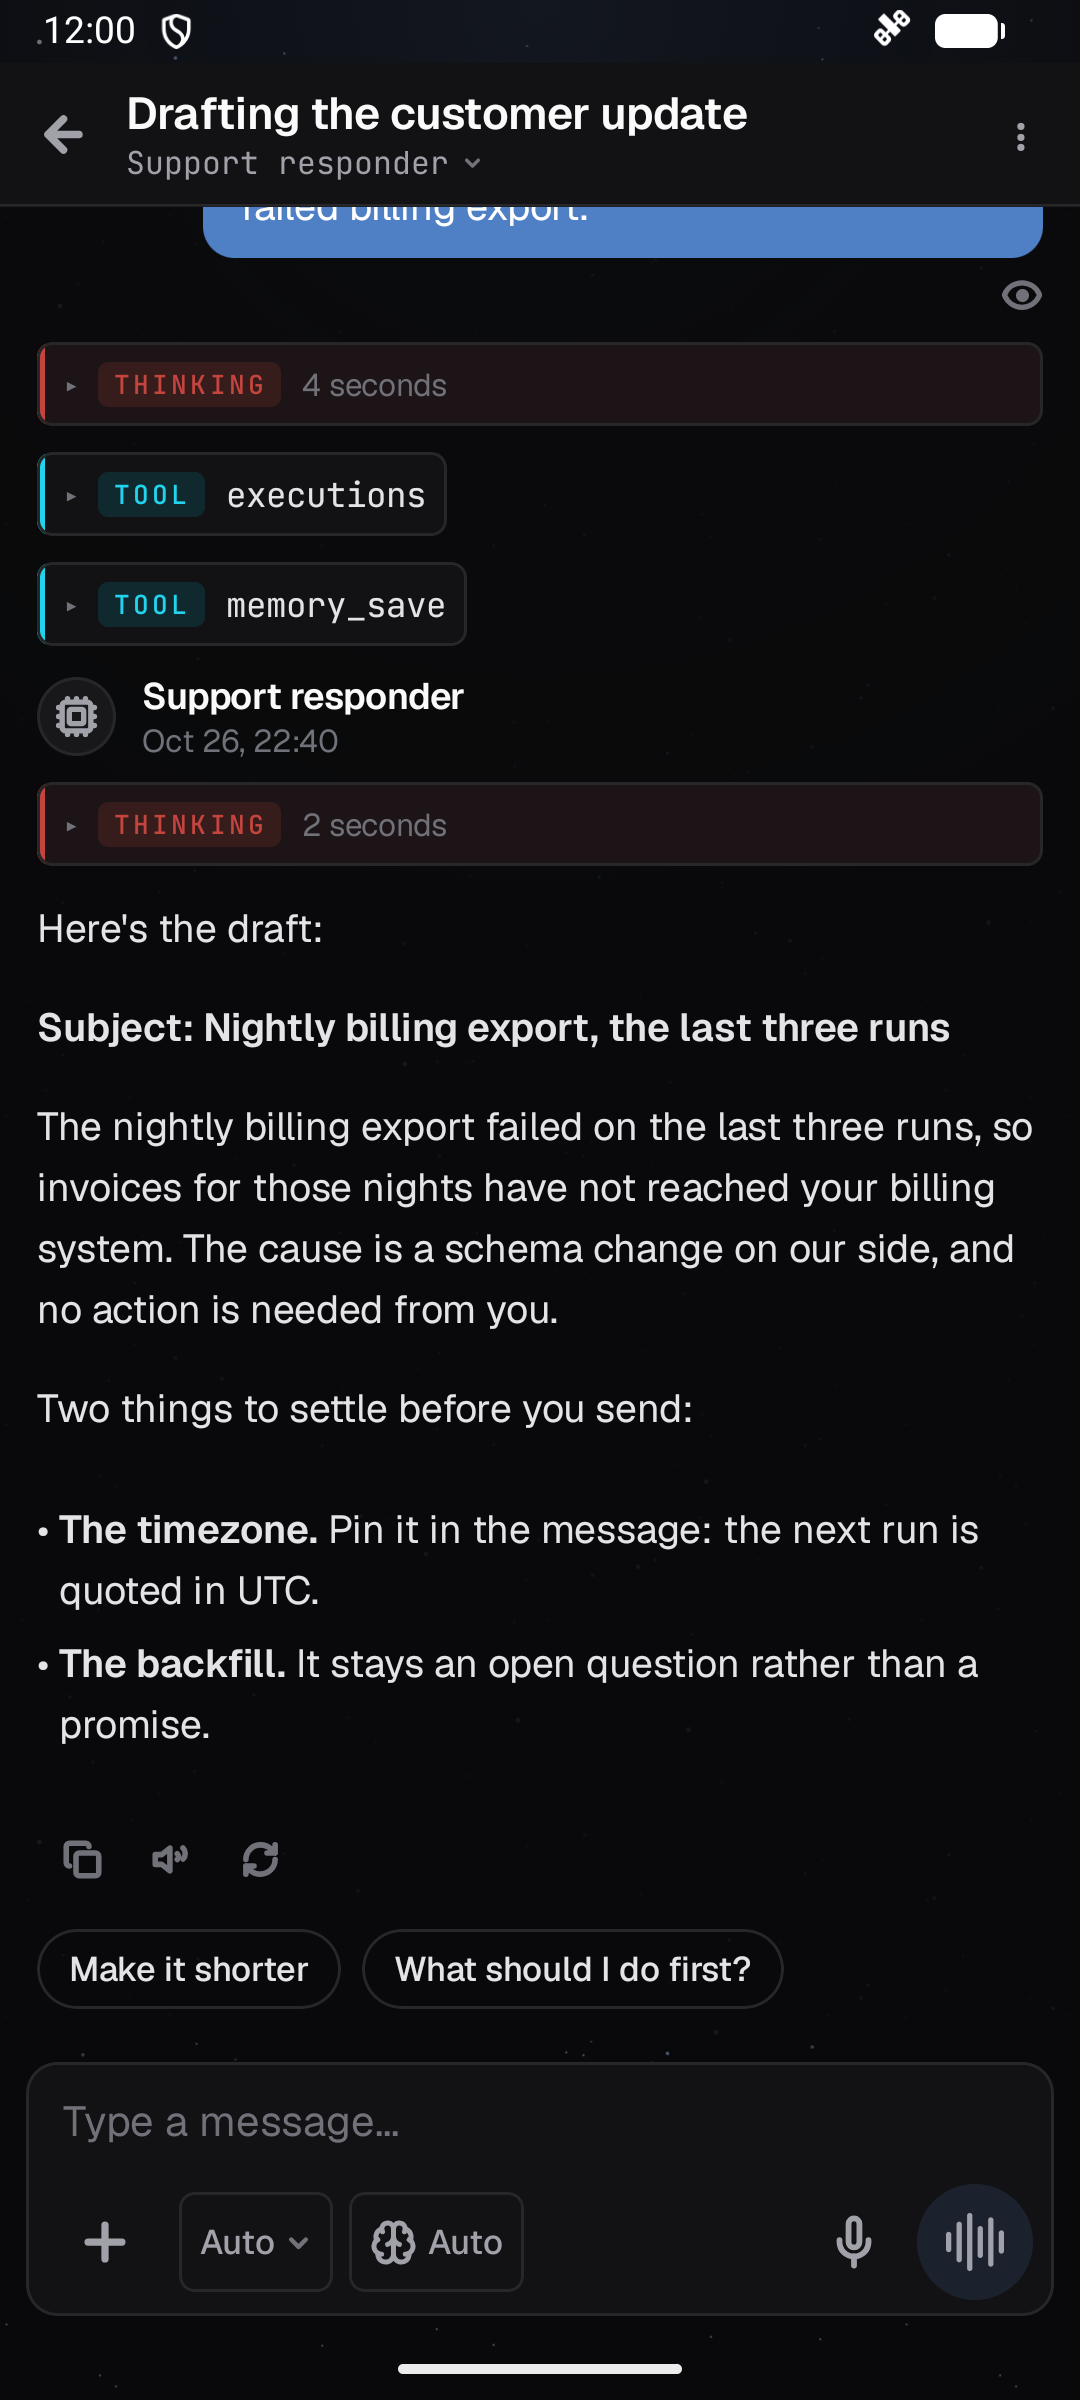
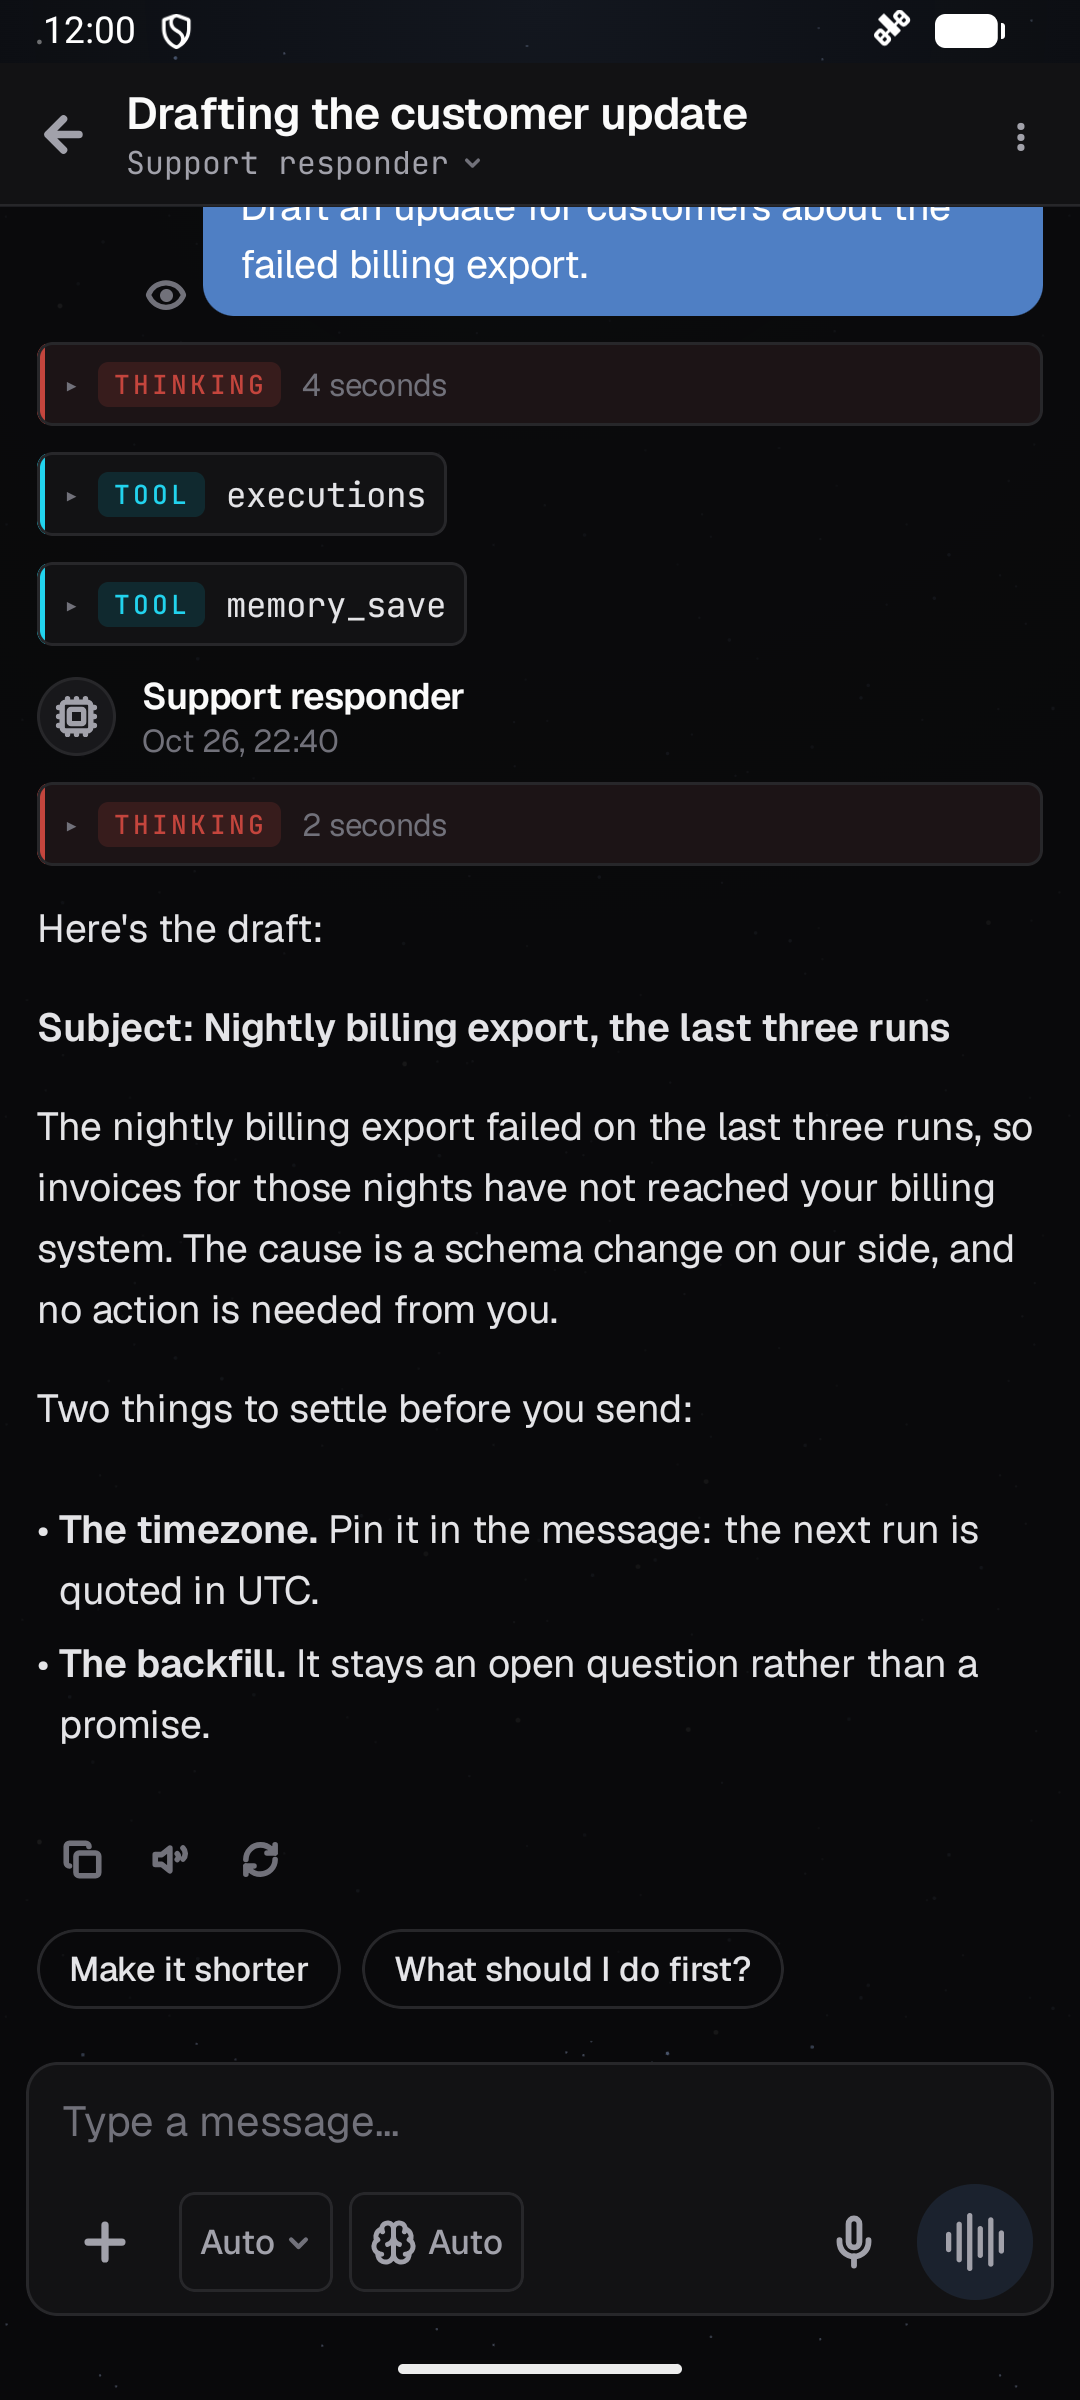
Put the read eye to the left of the bubble
Claude-Session: https://claude.ai/code/session_0143ghSaHh3xMx2GxQ6kaGS6

Changed region(s): [[0.1528, 0.0625, 0.9778, 0.1562]]

diff --git a/app/src/main/java/io/mszymanski/orknux/mobile/chat/MessageViews.kt b/app/src/main/java/io/mszymanski/orknux/mobile/chat/MessageViews.kt
@@ -14,6 +14,7 @@ import androidx.compose.foundation.layout.heightIn
 import androidx.compose.foundation.layout.padding
 import androidx.compose.foundation.layout.size
 import androidx.compose.foundation.layout.widthIn
+import androidx.compose.foundation.shape.CircleShape
 import androidx.compose.foundation.shape.RoundedCornerShape
 import androidx.compose.foundation.text.selection.SelectionContainer
 import androidx.compose.material3.Checkbox
@@ -126,26 +127,29 @@ fun UserBubble(
 ) {
     Column(modifier.fillMaxWidth(), horizontalAlignment = Alignment.End, verticalArrangement = Arrangement.spacedBy(6.dp)) {
         AttachmentRow(message.attachments, attachmentUrl)
-        if (message.content.isNotBlank()) {
-            SelectionContainer {
-                Text(
-                    message.content,
-                    Modifier.widthIn(max = 320.dp)
-                        .background(Ork.accent, RoundedCornerShape(topStart = 12.dp, topEnd = 4.dp, bottomStart = 12.dp, bottomEnd = 12.dp))
-                        .padding(horizontal = 14.dp, vertical = 10.dp),
-                    style = MaterialTheme.typography.bodyLarge.copy(fontSize = 15.sp, lineHeight = 22.sp),
-                    color = Ork.onAccent,
-                )
+        Row(verticalAlignment = Alignment.Bottom, horizontalArrangement = Arrangement.spacedBy(6.dp)) {
+            // First, so the bubble gives way to it on a narrow phone rather than pushing it off.
+            when (read) {
+                true -> Box(contentAlignment = Alignment.Center) {
+                    Icon(OrkIcons.Eye, "Read by the agent", Modifier.size(16.dp), tint = Ork.textMuted)
+                    // The web's file is only the outline, which at this size reads as a lens.
+                    Box(Modifier.size(5.dp).background(Ork.textMuted, CircleShape))
+                }
+                false -> Text("Queued", style = MaterialTheme.typography.bodySmall, color = Ork.textMuted)
+                null -> Unit
             }
-        }
-        when (read) {
-            true -> Box(contentAlignment = Alignment.Center) {
-                Icon(OrkIcons.Eye, "Read by the agent", Modifier.size(16.dp), tint = Ork.textMuted)
-                // The web's file is only the outline, which at this size reads as a lens.
-                Box(Modifier.size(5.dp).background(Ork.textMuted, androidx.compose.foundation.shape.CircleShape))
+            if (message.content.isNotBlank()) {
+                SelectionContainer {
+                    Text(
+                        message.content,
+                        Modifier.widthIn(max = 320.dp)
+                            .background(Ork.accent, RoundedCornerShape(topStart = 12.dp, topEnd = 4.dp, bottomStart = 12.dp, bottomEnd = 12.dp))
+                            .padding(horizontal = 14.dp, vertical = 10.dp),
+                        style = MaterialTheme.typography.bodyLarge.copy(fontSize = 15.sp, lineHeight = 22.sp),
+                        color = Ork.onAccent,
+                    )
+                }
             }
-            false -> Text("Queued", style = MaterialTheme.typography.bodySmall, color = Ork.textMuted)
-            null -> Unit
         }
     }
 }
